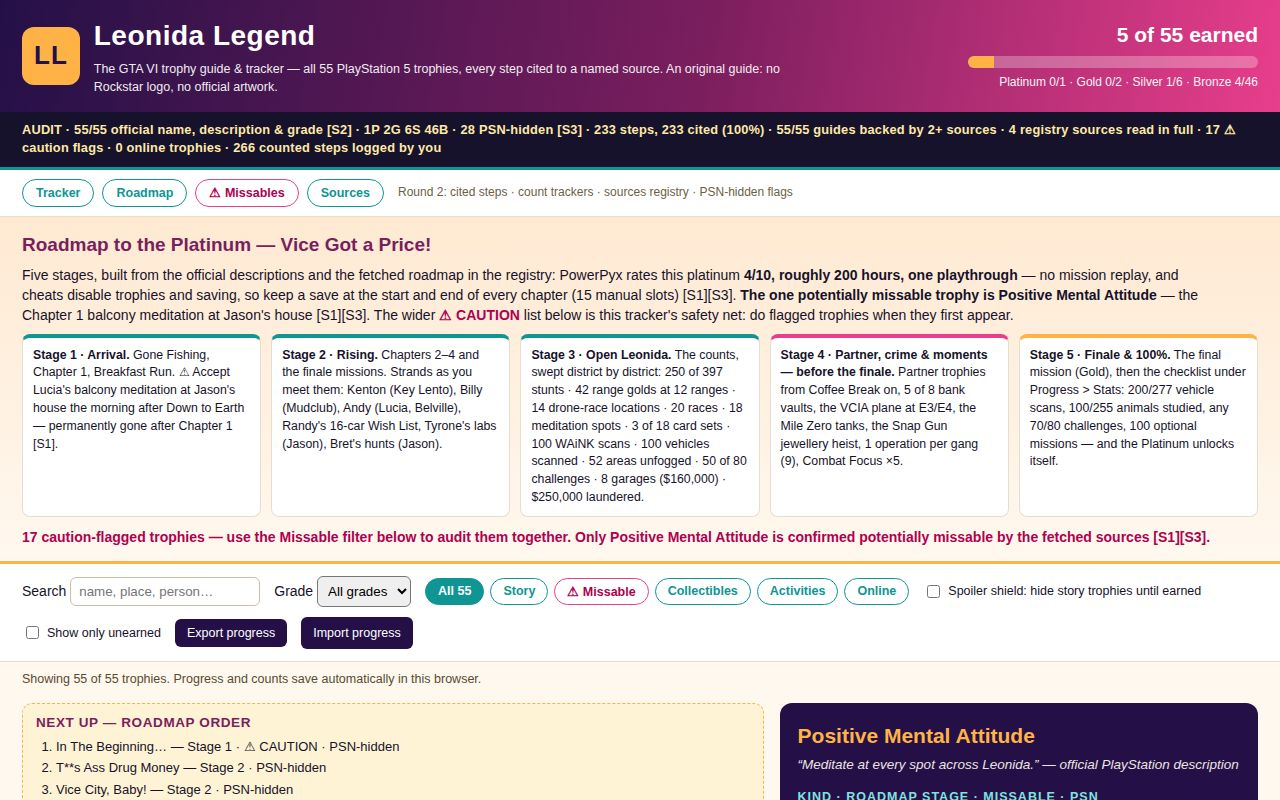
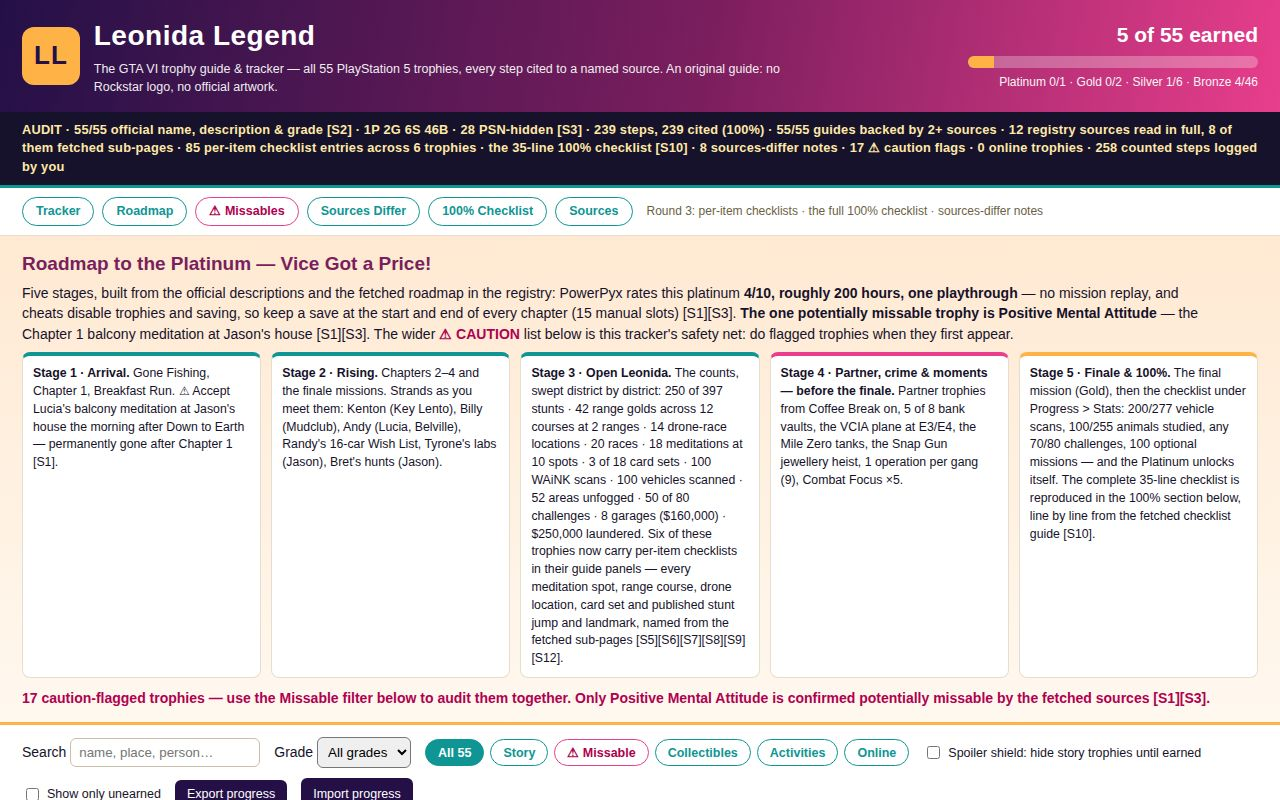
Leonida Legend round 3: per-item checklists, sources-differ panel, 100% checklist

diff --git a/app/app.js b/app/app.js
@@ -1,9 +1,11 @@
-// Leonida Legend — round 2 tracker logic: checklist + per-trophy count trackers in
-// localStorage, an audit bar computed live from the data, numbered cited steps in the
-// guide panel, a sources registry, a next-up roadmap list, filters by kind and grade,
-// the spoiler shield for story trophies, and export/import. Everything runs offline.
+// Leonida Legend — round 3 tracker logic: everything round 2 had (checklist, per-trophy
+// count trackers, live audit bar, numbered cited steps, sources registry, next-up list,
+// filters, spoiler shield, export/import) plus round 3's per-item checklists whose ticks
+// feed the count trackers, the full 100% completion checklist, and the sources-differ
+// panel. All state lives in localStorage; everything runs offline.
 const EARNED_KEY = 'leonida-legend-earned-v1';
 const COUNTS_KEY = 'leonida-legend-counts-v1';
+const ITEMS_KEY = 'leonida-legend-items-v1';
 const rowsEl = document.getElementById('rows');
 const detailEl = document.getElementById('detail');
 const gradeEl = document.getElementById('grade');
@@ -12,12 +14,15 @@ const spoilerEl = document.getElementById('spoiler');
 const onlyLeftEl = document.getElementById('only-left');
 let earned = new Set(JSON.parse(localStorage.getItem(EARNED_KEY) ?? '[]'));
 let counts = JSON.parse(localStorage.getItem(COUNTS_KEY) ?? '{}');
+let itemsDone = JSON.parse(localStorage.getItem(ITEMS_KEY) ?? '{}');
 let activeKind = 'all';
 let selectedName = null;
 const data = await (await fetch('data/trophies.json')).json();
 const trophies = data.trophies;
 const registry = data.source_registry ?? [];
 const registryByKey = Object.fromEntries(registry.map((s) => [s.key, s]));
+const completionChecklist = data.completion_checklist ?? [];
+const sourcesDiffer = data.sources_differ ?? [];
 
 function saveProgress() {
   localStorage.setItem(EARNED_KEY, JSON.stringify([...earned]));
@@ -25,6 +30,30 @@ function saveProgress() {
 
 function saveCounts() {
   localStorage.setItem(COUNTS_KEY, JSON.stringify(counts));
+}
+
+function saveItems() {
+  localStorage.setItem(ITEMS_KEY, JSON.stringify(itemsDone));
+}
+
+// Round 3: ticking a checklist item feeds the trophy's YOUR COUNT by the item's units
+// (a meditation spot counts 1–2 meditations, a shooting-range course counts its 3–4
+// golds, everything else counts 1), capped at the trophy's target. Unticking subtracts.
+function toggleItem(trophy, item, checked) {
+  const done = new Set(itemsDone[trophy.name] ?? []);
+  if (checked) done.add(item.name);
+  else done.delete(item.name);
+  itemsDone[trophy.name] = [...done];
+  if (trophy.count) {
+    const units = item.units ?? 1;
+    const now = counts[trophy.name] ?? 0;
+    counts[trophy.name] = Math.min(trophy.count, Math.max(0, now + (checked ? units : -units)));
+    saveCounts();
+  }
+  saveItems();
+  renderAudit();
+  showGuide(trophy);
+  renderList();
 }
 
 function isStory(trophy) {
@@ -52,19 +81,22 @@ function matchesFilters(trophy) {
 
 function sourceKeysOf(trophy) {
   const text = `${trophy.sources} ${(trophy.steps ?? []).join(' ')}`;
-  return [...new Set([...text.matchAll(/\[(S\d)\]/g)].map((m) => m[1]))].sort();
+  return [...new Set([...text.matchAll(/\[(S\d+)\]/g)].map((m) => m[1]))].sort((a, b) => Number(a.slice(1)) - Number(b.slice(1)));
 }
 
 function renderAudit() {
   const allSteps = trophies.flatMap((t) => t.steps ?? []);
-  const tagged = allSteps.filter((s) => /\[(S\d)\]/.test(s)).length;
+  const tagged = allSteps.filter((s) => /\[(S\d+)\]/.test(s)).length;
   const pct = allSteps.length ? Math.round((tagged / allSteps.length) * 100) : 0;
   const backed = trophies.filter((t) => sourceKeysOf(t).length >= 2).length;
   const caution = trophies.filter((t) => t.missable).length;
   const hiddenCount = trophies.filter((t) => t.hidden).length;
+  const allItems = trophies.flatMap((t) => t.items ?? []);
+  const itemTrophies = trophies.filter((t) => t.items?.length).length;
+  const checklistLines = completionChecklist.reduce((n, g) => n + g.items.length, 0);
   const logged = Object.values(counts).reduce((sum, n) => sum + n, 0);
   document.getElementById('audit-bar').textContent =
-    `AUDIT · 55/55 official name, description & grade [S2] · 1P 2G 6S 46B · ${hiddenCount} PSN-hidden [S3] · ${allSteps.length} steps, ${tagged} cited (${pct}%) · ${backed}/55 guides backed by 2+ sources · ${registry.length} registry sources read in full · ${caution} ⚠ caution flags · 0 online trophies · ${logged} counted steps logged by you`;
+    `AUDIT · 55/55 official name, description & grade [S2] · 1P 2G 6S 46B · ${hiddenCount} PSN-hidden [S3] · ${allSteps.length} steps, ${tagged} cited (${pct}%) · ${backed}/55 guides backed by 2+ sources · ${registry.length} registry sources read in full, ${registry.length - 4} of them fetched sub-pages · ${allItems.length} per-item checklist entries across ${itemTrophies} trophies · the ${checklistLines}-line 100% checklist [S10] · ${sourcesDiffer.length} sources-differ notes · ${caution} ⚠ caution flags · 0 online trophies · ${logged} counted steps logged by you`;
 }
 
 function renderRegistry() {
@@ -81,6 +113,43 @@ function renderRegistry() {
     url.className = 'src-url';
     url.textContent = src.url;
     card.append(h, what, url);
+    host.append(card);
+  }
+}
+
+function renderChecklist100() {
+  const host = document.getElementById('checklist100');
+  if (!host) return;
+  host.replaceChildren();
+  for (const group of completionChecklist) {
+    const card = document.createElement('article');
+    card.className = 'src-card';
+    const h = document.createElement('h3');
+    h.textContent = group.group;
+    const ul = document.createElement('ul');
+    ul.className = 'checklist-lines';
+    for (const line of group.items) {
+      const li = document.createElement('li');
+      li.textContent = line;
+      ul.append(li);
+    }
+    card.append(h, ul);
+    host.append(card);
+  }
+}
+
+function renderDiffer() {
+  const host = document.getElementById('differ');
+  if (!host) return;
+  host.replaceChildren();
+  for (const entry of sourcesDiffer) {
+    const card = document.createElement('article');
+    card.className = 'src-card differ-card';
+    const h = document.createElement('h3');
+    h.textContent = entry.topic;
+    const p = document.createElement('p');
+    p.textContent = entry.detail;
+    card.append(h, p);
     host.append(card);
   }
 }
@@ -138,7 +207,7 @@ function countRow(trophy) {
   });
   const note = document.createElement('span');
   note.className = 'count-note';
-  note.textContent = 'saved in this browser';
+  note.textContent = trophy.items?.length ? 'saved in this browser · the checklist below feeds this counter' : 'saved in this browser';
   wrap.append(label, minus, plus, note);
   return wrap;
 }
@@ -181,6 +250,35 @@ function showGuide(trophy) {
       ol.append(li);
     }
     detailEl.append(stepsH, ol);
+  }
+  if (trophy.items?.length) {
+    const itemsH = document.createElement('h4');
+    const doneCount = (itemsDone[trophy.name] ?? []).length;
+    itemsH.textContent = `Item checklist — ${doneCount} of ${trophy.items.length} ticked`;
+    detailEl.append(itemsH);
+    if (trophy.items_note) {
+      const note = document.createElement('p');
+      note.className = 'items-note';
+      note.textContent = trophy.items_note;
+      detailEl.append(note);
+    }
+    const list = document.createElement('div');
+    list.className = 'items-list';
+    const doneSet = new Set(itemsDone[trophy.name] ?? []);
+    for (const item of trophy.items) {
+      const row = document.createElement('label');
+      row.className = `item-row${doneSet.has(item.name) ? ' done' : ''}`;
+      const box = document.createElement('input');
+      box.type = 'checkbox';
+      box.checked = doneSet.has(item.name);
+      box.setAttribute('aria-label', `Tick ${item.name} for ${trophy.name}`);
+      box.addEventListener('change', () => toggleItem(trophy, item, box.checked));
+      const text = document.createElement('span');
+      text.textContent = `${item.name} — ${item.where} [${item.src}]`;
+      row.append(box, text);
+      list.append(row);
+    }
+    detailEl.append(list);
   }
   const srcH = document.createElement('h4');
   srcH.textContent = 'Sources';
@@ -239,7 +337,7 @@ function renderList() {
     const meta = document.createElement('p');
     meta.className = 'meta';
     const now = counts[trophy.name] ?? 0;
-    meta.textContent = `${trophy.kind} · Stage ${trophy.stage}${trophy.count ? ` · Count ${now}/${trophy.count}` : ''} · ${trophy.steps?.length ?? 0} cited steps${trophy.hidden ? ' · PSN-HIDDEN' : ''}${trophy.missable ? ' · ⚠ CAUTION — treat as missable' : ''}`;
+    meta.textContent = `${trophy.kind} · Stage ${trophy.stage}${trophy.count ? ` · Count ${now}/${trophy.count}` : ''} · ${trophy.steps?.length ?? 0} cited steps${trophy.items?.length ? ` · Items ${(itemsDone[trophy.name] ?? []).length}/${trophy.items.length}` : ''}${trophy.hidden ? ' · PSN-HIDDEN' : ''}${trophy.missable ? ' · ⚠ CAUTION — treat as missable' : ''}`;
     body.append(h, d, meta);
     const badge = document.createElement('span');
     badge.className = `grade-badge b-${trophy.grade}`;
@@ -269,7 +367,7 @@ document.getElementById('kind-chips').addEventListener('click', (event) => {
 document.getElementById('nav-missables').addEventListener('click', () => setKind('missable'));
 document.getElementById('export').addEventListener('click', () => {
   const a = document.createElement('a');
-  a.href = URL.createObjectURL(new Blob([JSON.stringify({ earned: [...earned], counts }, null, 2)], { type: 'application/json' }));
+  a.href = URL.createObjectURL(new Blob([JSON.stringify({ earned: [...earned], counts, items: itemsDone }, null, 2)], { type: 'application/json' }));
   a.download = 'leonida-legend-progress.json';
   a.click();
   URL.revokeObjectURL(a.href);
@@ -281,8 +379,11 @@ document.getElementById('import').addEventListener('change', async (event) => {
   const names = Array.isArray(parsed) ? parsed : parsed.earned ?? [];
   earned = new Set(names.filter((n) => trophies.some((t) => t.name === n)));
   if (!Array.isArray(parsed) && parsed.counts) counts = parsed.counts;
+  if (!Array.isArray(parsed) && parsed.items) itemsDone = parsed.items;
   saveProgress();
   saveCounts();
+  saveItems();
+  renderAudit();
   renderList();
 });
 gradeEl.addEventListener('change', renderList);
@@ -295,6 +396,8 @@ spoilerEl.addEventListener('change', () => {
 onlyLeftEl.addEventListener('change', renderList);
 renderAudit();
 renderRegistry();
+renderChecklist100();
+renderDiffer();
 renderList();
 showGuide(trophies[27]); // Positive Mental Attitude open by default: the one missable that matters, with its count tracker.
 selectedName = trophies[27].name;

diff --git a/app/index.html b/app/index.html
@@ -28,8 +28,10 @@
   <a href="#tracker">Tracker</a>
   <a href="#roadmap">Roadmap</a>
   <a href="#tracker" id="nav-missables">⚠ Missables</a>
+  <a href="#differ-sec">Sources Differ</a>
+  <a href="#hundred">100% Checklist</a>
   <a href="#sources">Sources</a>
-  <span class="nav-note">Round 2: cited steps · count trackers · sources registry · PSN-hidden flags</span>
+  <span class="nav-note">Round 3: per-item checklists · the full 100% checklist · sources-differ notes</span>
 </nav>
 
 <section id="roadmap" aria-label="Platinum roadmap">
@@ -38,9 +40,9 @@
   <ol class="stages">
     <li><strong>Stage 1 · Arrival.</strong> Gone Fishing, Chapter 1, Breakfast Run. ⚠ Accept Lucia's balcony meditation at Jason's house the morning after Down to Earth — permanently gone after Chapter 1 [S1].</li>
     <li><strong>Stage 2 · Rising.</strong> Chapters 2–4 and the finale missions. Strands as you meet them: Kenton (Key Lento), Billy (Mudclub), Andy (Lucia, Belville), Randy's 16-car Wish List, Tyrone's labs (Jason), Bret's hunts (Jason).</li>
-    <li><strong>Stage 3 · Open Leonida.</strong> The counts, swept district by district: 250 of 397 stunts · 42 range golds at 12 ranges · 14 drone-race locations · 20 races · 18 meditation spots · 3 of 18 card sets · 100 WAiNK scans · 100 vehicles scanned · 52 areas unfogged · 50 of 80 challenges · 8 garages ($160,000) · $250,000 laundered.</li>
+    <li><strong>Stage 3 · Open Leonida.</strong> The counts, swept district by district: 250 of 397 stunts · 42 range golds across 12 courses at 2 ranges · 14 drone-race locations · 20 races · 18 meditations at 10 spots · 3 of 18 card sets · 100 WAiNK scans · 100 vehicles scanned · 52 areas unfogged · 50 of 80 challenges · 8 garages ($160,000) · $250,000 laundered. Six of these trophies now carry per-item checklists in their guide panels — every meditation spot, range course, drone location, card set and published stunt jump and landmark, named from the fetched sub-pages [S5][S6][S7][S8][S9][S12].</li>
     <li><strong>Stage 4 · Partner, crime &amp; moments — before the finale.</strong> Partner trophies from Coffee Break on, 5 of 8 bank vaults, the VCIA plane at E3/E4, the Mile Zero tanks, the Snap Gun jewellery heist, 1 operation per gang (9), Combat Focus ×5.</li>
-    <li><strong>Stage 5 · Finale &amp; 100%.</strong> The final mission (Gold), then the checklist under Progress &gt; Stats: 200/277 vehicle scans, 100/255 animals studied, any 70/80 challenges, 100 optional missions — and the Platinum unlocks itself.</li>
+    <li><strong>Stage 5 · Finale &amp; 100%.</strong> The final mission (Gold), then the checklist under Progress &gt; Stats: 200/277 vehicle scans, 100/255 animals studied, any 70/80 challenges, 100 optional missions — and the Platinum unlocks itself. The complete 35-line checklist is reproduced in the 100% section below, line by line from the fetched checklist guide [S10].</li>
   </ol>
   <p id="missable-summary" class="missable-summary">17 caution-flagged trophies — use the Missable filter below to audit them together. Only Positive Mental Attitude is confirmed potentially missable by the fetched sources [S1][S3].</p>
 </section>
@@ -75,18 +77,30 @@
     <div id="rows"></div>
   </section>
   <aside id="detail" class="detail-pane" aria-label="Trophy guide">
-    <p class="detail-hint">Select any trophy to read its full guide here — numbered steps with source tags, its own count tracker, when it can be missed, and its sources.</p>
+    <p class="detail-hint">Select any trophy to read its full guide here — numbered steps with source tags, its own count tracker, when it can be missed, and its sources. Six counted trophies also carry a per-item checklist: tick spots, courses, locations and sets off one by one and the count tracker above it moves with you.</p>
   </aside>
 </main>
 
 <section id="sources" aria-label="Sources registry">
   <h2>Sources registry — every fact in this guide traces to one of these</h2>
-  <p>Fetched and read in full while building round 2. Steps cite them by key — [S1] is a method, [S2] is the list itself, [S3] is the hidden split and roadmap cross-check, [S4] is the independent cross-check. Guide text is original to this entry: sources are cited, never copied. Where a source marks a method “currently unknown” (four hidden moment trophies), the guide says so instead of inventing one.</p>
+  <p>Fetched and read in full while building rounds 2 and 3. Steps and items cite them by key — [S1] is the method roadmap, [S2] is the list itself, [S3] is the hidden split and roadmap cross-check, [S4] is the independent cross-check, and [S5]–[S12] are the fetched sub-pages behind round 3's per-item checklists, the 100% checklist and the sources-differ notes. Guide text is original to this entry: sources are cited, never copied. Where a source marks a method “currently unknown” (four hidden moment trophies), the guide says so instead of inventing one — and where a source list is still a work in progress (24 of 130 stunt jumps, 7 of 31 landmarks), the checklists here say exactly that.</p>
   <div id="registry"></div>
 </section>
 
+<section id="differ-sec" aria-label="Where the sources differ">
+  <h2>Sources differ — read both finish lines before you trust either</h2>
+  <p>Every entry below was found by reading the fetched pages against each other. Most are not contradictions: a trophy bar and a 100% bar are different finish lines, and this guide refuses to blur them. One is a flat wording clash between a guide's link title and its own sub-page — flagged as such, with the sub-page trusted.</p>
+  <div id="differ"></div>
+</section>
+
+<section id="hundred" aria-label="100 percent completion checklist">
+  <h2>The 100% checklist — all 35 lines, for A Long Road</h2>
+  <p>The trophy A Long Road asks for 100% completion, and this is the whole bar, reproduced line by line from the fetched checklist guide [S10] — nothing toward it is missable, and progress made during the story already counts even though the checklist only becomes viewable after the story, under Progress &gt; Stats &gt; 100% Completion. Note how many lines sit <em>above</em> the matching trophy bar — 300 stunts, not 250; 15 card sets, not 3 — the Sources Differ panel above keeps those two finish lines side by side.</p>
+  <div id="checklist100"></div>
+</section>
+
 <footer>
-  <p>Official PlayStation 5 trophy names, descriptions and grades as listed by Exophase [S2] and cross-checked against Press Start [S4]. Hidden flags from GAMES.GG's 27 shown / 28 hidden split [S3]. Methods from the PowerPyx trophy guide and roadmap [S1]. Works fully offline; progress and counts are saved only in your browser (localStorage).</p>
+  <p>Official PlayStation 5 trophy names, descriptions and grades as listed by Exophase [S2] and cross-checked against Press Start [S4]. Hidden flags from GAMES.GG's 27 shown / 28 hidden split [S3]. Methods from the PowerPyx trophy guide and roadmap [S1]; per-item checklists from its fetched meditation [S5], shooting-range [S6], stunt-jump [S7], card-set [S8], drone-race [S9], WAiNK [S11] and landmark [S12] pages; the 100% checklist from its checklist guide [S10]. Works fully offline; progress, counts and item ticks are saved only in your browser (localStorage).</p>
 </footer>
 <script type="module" src="app.js"></script>
 </body>

diff --git a/app/style.css b/app/style.css
@@ -66,7 +66,7 @@ h1 { margin: 0; font-size: 28px; letter-spacing: .5px; }
 .g-gold { border-left-color: #e0a100 !important; } .b-gold { background: #ffd23e; color: #4a3400; }
 .g-silver { border-left-color: #9aa3ad !important; } .b-silver { background: #dfe3e8; color: #333c44; }
 .g-bronze { border-left-color: #c47b42 !important; } .b-bronze { background: #f0c49b; color: #5b3411; }
-.detail-pane { background: #241047; color: #fdf6ec; border-radius: 12px; padding: 18px; position: sticky; top: 76px; min-height: 320px; }
+.detail-pane { background: #241047; color: #fdf6ec; border-radius: 12px; padding: 18px; position: sticky; top: 76px; min-height: 320px; max-height: calc(100vh - 92px); overflow-y: auto; }
 .detail-pane h2 { margin: 0 0 4px; font-size: 21px; color: var(--sun); }
 .detail-pane .d-desc { font-style: italic; opacity: .92; margin: 0 0 10px; }
 .detail-pane h4 { margin: 13px 0 4px; color: #7fe3e0; font-size: 12.5px; text-transform: uppercase; letter-spacing: 1px; }
@@ -87,5 +87,20 @@ h1 { margin: 0; font-size: 28px; letter-spacing: .5px; }
 .src-card h3 { margin: 0 0 4px; font-size: 14.5px; color: #7fe3e0; }
 .src-card p { margin: 0 0 4px; font-size: 12.8px; }
 .src-url { color: var(--sun); word-break: break-all; font-size: 12px !important; }
+.items-note { font-size: 12.3px; opacity: .85; font-style: italic; }
+.items-list { display: flex; flex-direction: column; gap: 4px; margin: 4px 0 8px; max-height: 300px; overflow-y: auto; padding-right: 4px; }
+.item-row { display: flex; gap: 8px; align-items: flex-start; background: rgba(255,255,255,.07); border: 1px solid #4a3577; border-radius: 7px; padding: 6px 8px; font-size: 12.6px; cursor: pointer; }
+.item-row:hover { border-color: var(--teal); }
+.item-row input[type="checkbox"] { width: 16px; height: 16px; margin-top: 1px; flex-shrink: 0; cursor: pointer; }
+.item-row.done { background: rgba(14,149,148,.25); border-color: var(--teal); }
+.item-row.done span { text-decoration: line-through; opacity: .85; }
+#hundred, #differ-sec { padding: 16px 22px 10px; background: #17122b; color: #fdf6ec; }
+#hundred { background: #241047; }
+#hundred h2, #differ-sec h2 { margin: 0 0 6px; font-size: 19px; color: var(--sun); }
+#hundred > p, #differ-sec > p { max-width: 1180px; opacity: .92; }
+#checklist100, #differ { display: grid; grid-template-columns: repeat(2, 1fr); gap: 11px; }
+.checklist-lines { margin: 2px 0; padding-left: 18px; }
+.checklist-lines li { font-size: 12.6px; margin-bottom: 3.5px; }
+.differ-card { border-top-color: var(--pink); }
 footer { padding: 14px 22px 22px; font-size: 12px; color: #6b5f45; max-width: 1180px; }
-@media (max-width: 900px) { .layout { grid-template-columns: 1fr; } .stages { grid-template-columns: 1fr 1fr; } #registry { grid-template-columns: 1fr; } .detail-pane { position: static; } }
+@media (max-width: 900px) { .layout { grid-template-columns: 1fr; } .stages { grid-template-columns: 1fr 1fr; } #registry, #checklist100, #differ { grid-template-columns: 1fr; } .detail-pane { position: static; } }

diff --git a/main.ts b/main.ts
@@ -1,11 +1,14 @@
 // Leonida Legend — entry program for gta6-trophy-guide-01 (Node 22, standard library only).
-// Round 2: my guide lives in app/ as plain static files (index.html, style.css, app.js,
+// Round 3: my guide lives in app/ as plain static files (index.html, style.css, app.js,
 // data/trophies.json): a 55-trophy GTA VI checklist and tracker with a five-stage platinum
-// roadmap, 233 steps that each cite a source in the data file's registry (the PowerPyx
-// roadmap, the Exophase list, the GAMES.GG hidden split, Press Start's cross-check),
-// PSN-hidden flags for the 28 hidden trophies, per-trophy count trackers, an audit bar
-// computed from the data, caution flags, filters, a spoiler shield, and export/import —
-// all fully offline, and every file of it written in recorded sessions.
+// roadmap, 239 steps that each cite a source in the data file's registry (the PowerPyx
+// roadmap, the Exophase list, the GAMES.GG hidden split, Press Start's cross-check, and
+// eight fetched PowerPyx sub-pages), PSN-hidden flags for the 28 hidden trophies,
+// per-trophy count trackers, 85 per-item checklist entries across six counted trophies
+// whose ticks feed those trackers, the full 35-line 100% completion checklist, a panel
+// of eight sources-differ notes, an audit bar computed from the data, caution flags,
+// filters, a spoiler shield, and export/import — all fully offline, and every file of
+// it written in recorded sessions.
 // This program hands the guide in: it copies app/ and screenshots/ to the output directory and
 // writes dossier.json there with buildDossier from vendor/makefun-frontend.ts, which I leave
 // byte-for-byte unchanged because the scorer rebuilds the dossier with its own copy and compares.

diff --git a/serve.ts b/serve.ts
@@ -1,5 +1,6 @@
 // Leonida Legend — local preview server (development only, not part of the entry's output).
-// Round 2 uses it on port 8125 to render the new screenshots of the cited-steps guide.
+// Round 2 used it on port 8125 for the cited-steps screenshots; round 3 uses port 8126 to
+// render the per-item-checklist screenshots, including seeded localStorage ticks.
 // I use it to open the guide exactly as a reader would: `node serve.ts` serves app/ at
 // http://localhost:8080 (`--port <n>` picks another port), with the MIME types a browser
 // needs and a hard refusal of any path that escapes app/. Node 22 standard library only.

diff --git a/README.md b/README.md
@@ -8,6 +8,8 @@
 
 **Round 2** rebuilds the guide on sources fetched and read in full: the PowerPyx trophy guide & roadmap, the Exophase PS5 list, GAMES.GG's complete list and Press Start's full list, all named in an in-app sources registry (S1–S4). Each trophy now carries 3–6 numbered steps, and **all 233 steps end with a source tag**; 55/55 guides are backed by 2+ sources. The 28 PSN-hidden trophies are flagged from GAMES.GG's 27 shown / 28 hidden split. Trophies with a count get an interactive **YOUR COUNT** tracker (saved in the browser), an audit bar at the top computes the citation totals live from the data, and research corrected round 1 where it was wrong: only Positive Mental Attitude is potentially missable (the Chapter 1 balcony meditation), and the Andy/Billy/Tyrone questlines do **not** count toward Strangers & Freaks. A five-stage roadmap leads to the Platinum: story chapters and named missions first, the big counts (250 stunts, 42 shooting-range golds, 100 WAiNK locations, 52 areas…) swept district by district, partner and one-off moment trophies banked before the finale, then the final mission and 100% completion. Sixteen trophies carry a ⚠ CAUTION flag built from their official descriptions — tied to one named mission, one named person, a unique animal, a choice or a single moment — so you do them when they first appear. The tracker saves progress in your browser (localStorage), filters by kind (story, missable, collectibles, activities, online — the official list has no online trophies) and by grade, searches, hides story trophies behind a spoiler shield until they are earned, and exports/imports progress as a file. Original look only: no Rockstar logo and no official artwork, and the app makes no network requests.
 
+**Round 3** goes one level deeper, from trophy-level steps to item-level checklists, built from eight more PowerPyx pages fetched and read in full (registry S5–S12): all 10 meditation spots, the 12 shooting-range courses, the 24 stunt jumps published so far, all 18 card sets, all 14 drone-race locations and the 7 landmarks published so far. Six counted trophies now carry a per-item checklist — **85 items in total** — and ticking an item feeds that trophy's YOUR COUNT by the item's real weight (a meditation spot counts 1–2 meditations, a range course counts its 3–4 golds). The step count rises to **239, still 100% cited**, and the registry grows to 12 sources. Round 3 also adds the complete **35-line 100% completion checklist** for A Long Road and a **Sources Differ** panel with 8 entries where the fetched pages set two different bars — trophy vs 100% (250 vs 300 stunts, 3 vs 15 card sets, 20 vs 30 race wins, 557 vehicles in the game vs the 277 base models that count), the still-unconfirmed status of the Chapter 1 meditation, and one flat wording clash it corrects: the "12 Shooting Range Locations" are 12 challenges at 2 ranges. Where a source list is still a work in progress (24 of 130 stunt jumps, 7 of 31 landmarks), the guide labels its checklist partial instead of presenting it as complete.
+
 ## Run it
 
 ```sh
